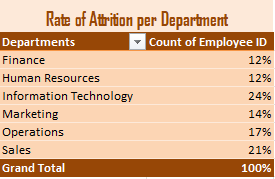
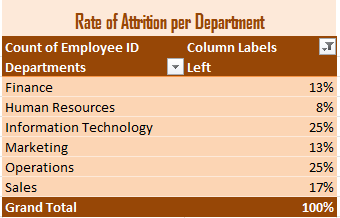
corrections made

diff --git a/README.md b/README.md
@@ -119,7 +119,7 @@ The cleaned dataset contains standardized data, corrected data types, handled mi
 The exploratory data analysis revealed the following insights:
 - **Information Technology** has the highest number of employees.
 - **Human Resources** has the highest average salary.
-- **Information Technology** recorded the highest employee attrition rate.
+- **Information Technology and Operations** recorded the highest employee attrition rate.
 - Employees in the **Exceeding** performance band received the highest total bonus payout.
 These findings can help management understand workforce distribution, identify departments experiencing higher employee turnover, and evaluate employee compensation and reward strategies.
 ---